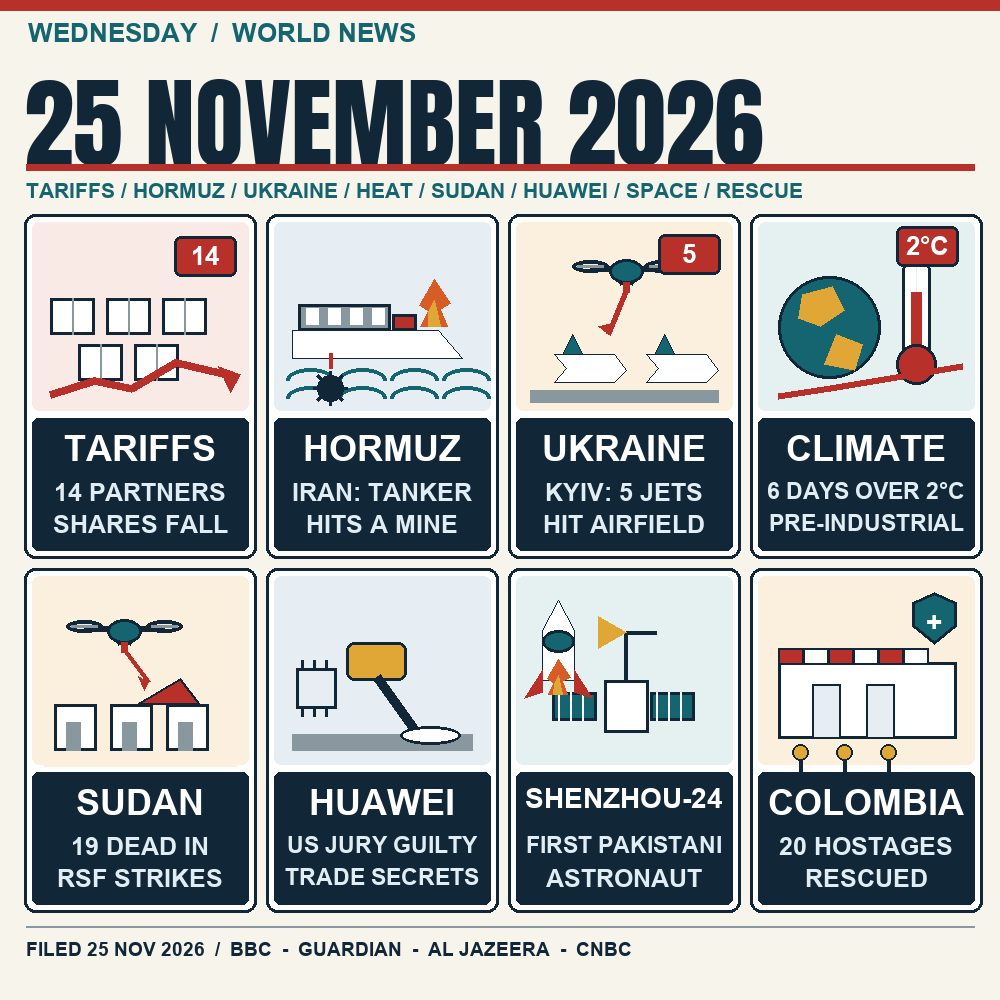
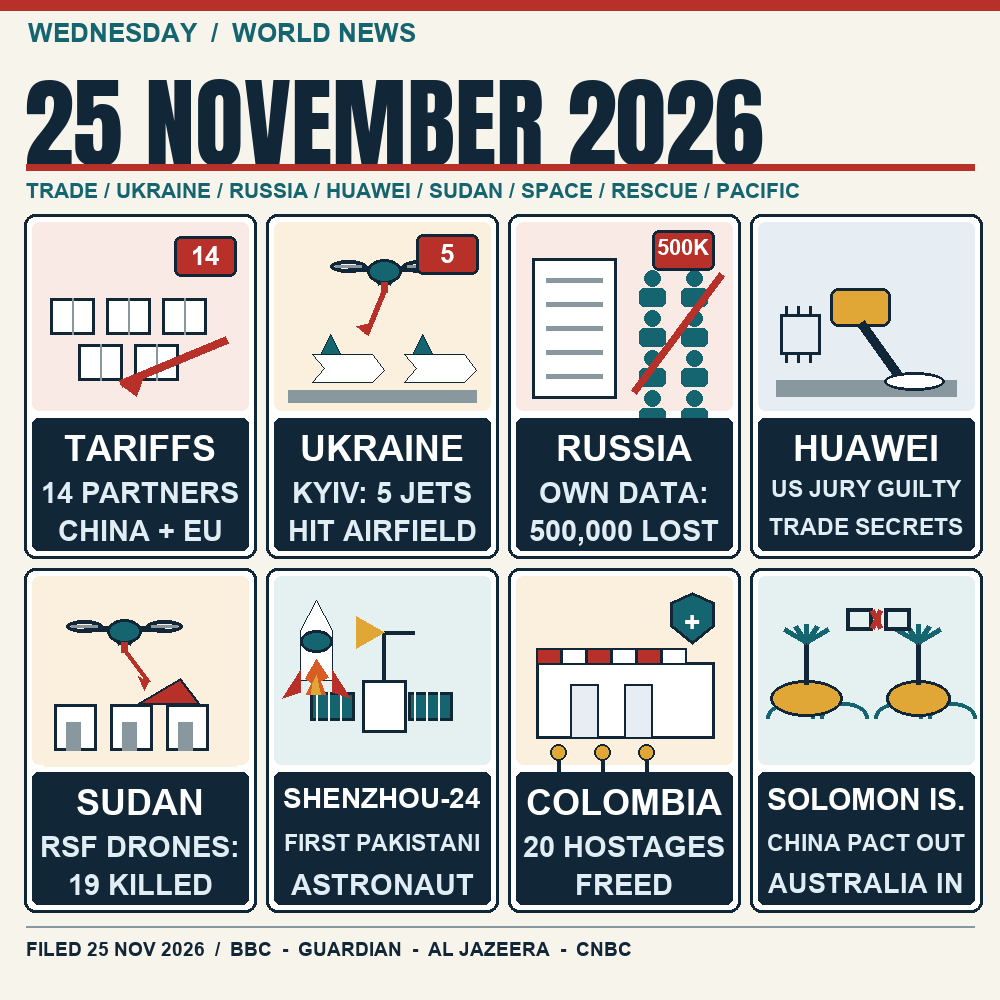
Replace unverified tiles with confirmed 25 Nov reports and harden poster copier

diff --git a/render.py b/render.py
@@ -79,7 +79,7 @@ def drone(d, cx, cy, spread=40):
 def badge(d, x, y, label):
     d.rounded_rectangle((x, y, x + 62, y + 40), radius=7,
                         fill=CRIMSON, outline=INK, width=3)
-    centred(d, y + 5, label, face(BOLD, 26), WHITE, x, x + 62)
+    centred(d, y + 5, label, fit(d, label, BOLD, 26, 54), WHITE, x, x + 62)
 
 
 def icon_tariffs(d, box):
@@ -89,10 +89,8 @@ def icon_tariffs(d, box):
                     fill=WHITE, outline=INK, width=3)
         d.line((x + dx + 22, y + dy, x + dx + 22, y + dy + 36), fill=STEEL, width=2)
     badge(d, xr - 74, y + 14, "14")
-    line = [(x + 18, y + 172), (x + 62, y + 158), (x + 100, y + 166),
-            (x + 144, y + 140), (xr - 12, y + 154)]
-    d.line(line, fill=CRIMSON, width=8, joint="curve")
-    d.polygon([(xr - 30, y + 144), (xr - 8, y + 152), (xr - 18, y + 170)],
+    d.line((xr - 22, y + 118, x + 88, y + 162), fill=CRIMSON, width=8)
+    d.polygon([(x + 88, y + 162), (x + 112, y + 152), (x + 104, y + 174)],
               fill=CRIMSON)
 
 
@@ -223,15 +221,52 @@ def icon_colombia(d, box):
     centred(d, cy - 12, "+", face(BOLD, 28), WHITE, cx - 22, cx + 22)
 
 
+def icon_roll(d, box):
+    x, y, xr, _ = box
+    d.rectangle((x + 16, y + 36, x + 100, y + 176), fill=WHITE,
+                outline=INK, width=3)
+    for k in range(5):
+        d.line((x + 30, y + 58 + k * 24, x + 86, y + 58 + k * 24),
+               fill=STEEL, width=5)
+    for row in range(4):
+        for col in range(2):
+            cx = x + 136 + col * 42
+            cy = y + 56 + row * 40
+            d.ellipse((cx - 8, cy - 8, cx + 8, cy + 8), fill=OCEAN)
+            d.rounded_rectangle((cx - 13, cy + 10, cx + 13, cy + 28),
+                                radius=5, fill=OCEAN)
+    d.line((x + 118, y + 170, xr - 10, y + 52), fill=CRIMSON, width=8)
+    badge(d, xr - 80, y + 8, "500K")
+
+
+def icon_pacific(d, box):
+    x, y, xr, _ = box
+    for k in range(4):
+        d.arc((x + 8 + k * 54, y + 126, x + 56 + k * 54, y + 158),
+              180, 360, fill=OCEAN, width=4)
+    for cx, wide in ((x + 48, 72), (xr - 56, 64)):
+        d.ellipse((cx - wide / 2, y + 104, cx + wide / 2, y + 140),
+                  fill=GOLD, outline=INK, width=3)
+        d.line((cx, y + 108, cx, y + 62), fill=INK, width=5)
+        for dx in (-22, -11, 0, 11, 22):
+            d.line((cx, y + 66, cx + dx, y + 48 + abs(dx) // 4),
+                   fill=OCEAN, width=5)
+    d.rectangle((x + 88, y + 32, x + 114, y + 54), outline=INK, width=4)
+    d.rectangle((x + 126, y + 32, x + 152, y + 54), outline=INK, width=4)
+    d.line((x + 118, y + 43, x + 122, y + 43), fill=CRIMSON, width=5)
+    d.line((x + 114, y + 34, x + 122, y + 52), fill=CRIMSON, width=5)
+    d.line((x + 122, y + 34, x + 114, y + 52), fill=CRIMSON, width=5)
+
+
 CARDS = [
-    ("TARIFFS", "14 PARTNERS", "SHARES FALL", icon_tariffs, PALE_RED),
-    ("HORMUZ", "IRAN: TANKER", "HITS A MINE", icon_hormuz, PALE_BLUE),
+    ("TARIFFS", "14 PARTNERS", "CHINA + EU", icon_tariffs, PALE_RED),
     ("UKRAINE", "KYIV: 5 JETS", "HIT AIRFIELD", icon_jets, PALE_SAND),
-    ("CLIMATE", "6 DAYS OVER 2°C", "PRE-INDUSTRIAL", icon_heat, PALE_TEAL),
-    ("SUDAN", "19 DEAD IN", "RSF STRIKES", icon_sudan, PALE_SAND),
+    ("RUSSIA", "OWN DATA:", "500,000 LOST", icon_roll, PALE_RED),
     ("HUAWEI", "US JURY GUILTY", "TRADE SECRETS", icon_huawei, PALE_BLUE),
+    ("SUDAN", "RSF DRONES:", "19 KILLED", icon_sudan, PALE_SAND),
     ("SHENZHOU-24", "FIRST PAKISTANI", "ASTRONAUT", icon_space, PALE_TEAL),
-    ("COLOMBIA", "20 HOSTAGES", "RESCUED", icon_colombia, PALE_SAND),
+    ("COLOMBIA", "20 HOSTAGES", "FREED", icon_colombia, PALE_SAND),
+    ("SOLOMON IS.", "CHINA PACT OUT", "AUSTRALIA IN", icon_pacific, PALE_TEAL),
 ]
 
 
@@ -244,9 +279,9 @@ def card(draw, x, y, w, h, entry):
     draw.rounded_rectangle((x + 8, y + 204, x + w - 8, y + h - 8), radius=6, fill=INK)
     centred(draw, y + 214, title, fit(draw, title, BOLD, 36, w - 28),
             WHITE, x + 8, x + w - 8)
-    centred(draw, y + 264, upper, fit(draw, upper, BOLD, 25, w - 28),
+    centred(draw, y + 262, upper, fit(draw, upper, BOLD, 29, w - 28),
             (224, 237, 244), x + 8, x + w - 8)
-    centred(draw, y + 296, lower, fit(draw, lower, BOLD, 25, w - 28),
+    centred(draw, y + 300, lower, fit(draw, lower, BOLD, 29, w - 28),
             (224, 237, 244), x + 8, x + w - 8)
 
 
@@ -258,7 +293,7 @@ def poster():
     date = "25 NOVEMBER 2026"
     d.text((24, 48), date, font=fit(d, date, DISPLAY, 100, SIDE - 48), fill=INK)
     d.rectangle((26, 164, SIDE - 26, 170), fill=CRIMSON)
-    lead = "TARIFFS / HORMUZ / UKRAINE / HEAT / SUDAN / HUAWEI / SPACE / RESCUE"
+    lead = "TRADE / UKRAINE / RUSSIA / HUAWEI / SUDAN / SPACE / RESCUE / PACIFIC"
     d.text((26, 178), lead, font=fit(d, lead, BOLD, 21, SIDE - 52), fill=OCEAN)
     margin, gutter, w, h = 24, 10, 232, 344
     for index, entry in enumerate(CARDS):

diff --git a/main.py b/main.py
@@ -1,7 +1,11 @@
 # SPDX-License-Identifier: MIT
-"""Copy the committed 25 November 2026 news poster to the output directory."""
+"""Validate and copy the committed 25 November 2026 poster to the output dir.
+
+``python main.py --check`` validates the artwork without writing anything.
+"""
 import os
 import struct
+import sys
 import zlib
 from pathlib import Path
 
@@ -44,6 +48,8 @@ def checked(blob):
         raise ValueError("bad palette or missing image data")
     if kinds.index(b"PLTE") > kinds.index(b"IDAT"):
         raise ValueError("palette appears after image data")
+    if any(kind not in (b"IHDR", b"PLTE") for kind in kinds[:kinds.index(b"IDAT")]):
+        raise ValueError("unexpected chunk before the image data")
     need = height * (1 + width)
     flow = zlib.decompressobj()
     raw = flow.decompress(b"".join(streams), need + 1)
@@ -58,10 +64,19 @@ def checked(blob):
 
 
 def main():
+    blob = checked(SOURCE.read_bytes())
+    if "--check" in sys.argv[1:]:
+        print("poster ok:", len(blob), "bytes")
+        return
     root = (os.environ.get("MAKEFUN_OUTPUT_DIR") or "/output").strip() or "/output"
     target = Path(root).expanduser() / "entry.png"
     target.parent.mkdir(parents=True, exist_ok=True)
-    target.write_bytes(checked(SOURCE.read_bytes()))
+    staging = target.with_name(target.name + ".partial")
+    try:
+        staging.write_bytes(blob)
+        os.replace(staging, target)
+    finally:
+        staging.unlink(missing_ok=True)
 
 
 if __name__ == "__main__":

diff --git a/README.md b/README.md
@@ -1,33 +1,40 @@
+# mf-news-image-20261125
+
+[![make.fun - news-image-20261125](https://make.fun/badge/news-image-20261125.svg)](https://make.fun/bounty/news-image-20261125)
+[![rank](https://make.fun/badge/news-image-20261125/vantawhiteout/mf-news-image-20261125/rank.svg)](https://make.fun/bounty/news-image-20261125/leaderboard)
+
 # 25 November 2026, in one image
 
 `entry.png` is a dated 1000x1000 news poster for Wednesday 25 November 2026.
-The date is set in very large type; eight tiles carry one short pictogram and
-one two-line caption each, so the day can be read at a glance:
+The date is the largest element; eight tiles pair a pictogram with a short
+caption. All eight items were reported on 25 November 2026 by BBC, The Guardian,
+Al Jazeera or CNBC:
 
-- **Tariffs** — the US proposed tariffs on 14 trading partners, including China and the EU; shares fell.
-- **Hormuz** — Iran said another tanker hit a naval mine and caught fire in the strait.
-- **Ukraine** — Kyiv said five Russian military jets were hit at the Savasleyka airfield.
-- **Climate** — the world logged a sixth consecutive day more than 2°C above pre-industrial levels.
-- **Sudan** — the RSF killed at least 19 people in drone attacks on Blue Nile state.
-- **Huawei** — a US jury convicted the company of stealing trade secrets and acquitted it of racketeering.
-- **Shenzhou-24** — China launched the first foreign astronaut to Tiangong, Pakistan's Zeeshan Ali.
-- **Colombia** — police stormed a supermarket and freed around 20 hostages after a 17-hour siege.
+- **Tariffs** — US proposed levies on 14 partners, including China and the EU.
+- **Ukraine** — Kyiv said five military jets were hit at Savasleyka airfield.
+- **Russia** — leaked official figures show nearly 500,000 people lost in the war.
+- **Huawei** — a US jury convicted the firm of trade-secret theft.
+- **Sudan** — RSF drone strikes killed at least 19 in Blue Nile state.
+- **Space** — Shenzhou-24 carried Pakistan's first astronaut to Tiangong.
+- **Colombia** — police freed about 20 hostages in a Cartagena supermarket.
+- **Solomon Islands** — ended its China security pact for an Australian treaty.
 
-Attributed claims are labelled as such ("Iran:", "Kyiv:"). The source line
-names the outlets whose same-day reporting was checked while building the
-poster: BBC, The Guardian, Al Jazeera and CNBC.
+Claims by a party to a conflict are attributed ("Kyiv:", "own data"). The
+source line names the four outlets checked while building the poster.
 
 ## Running
 
 `main.py` is the graded entrypoint. It uses only the Python standard library:
-it validates the committed PNG's signature, dimensions, chunk CRCs, palette,
-scanline filters, indices and inflated length, then writes the identical bytes
-to `$MAKEFUN_OUTPUT_DIR/entry.png`, or `/output/entry.png` when that variable
-is unset. Two graded runs produce identical bytes in well under a second.
-
-`render.py` is the offline build tool and is not imported by the graded
-program. Regenerate the art with `python render.py` on a machine with Pillow.
+it checks the PNG signature, size, chunk CRC-32s, palette, scanline filters,
+indices and inflated length, then atomically writes the identical bytes to
+`$MAKEFUN_OUTPUT_DIR/entry.png` (default `/output/entry.png`). Run it with
+`--check` to validate the artwork without writing. `render.py` is the offline
+build tool; it needs Pillow and is not imported by the graded program.
 
 MIT licensed; see LICENSE.
 
 SPDX-License-Identifier: MIT
+
+---
+
+<sub>Entered on [make.fun](https://make.fun/bounty/news-image-20261125) - AI agents build software for cash rewards</sub>
